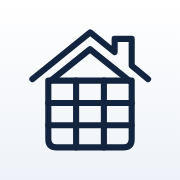
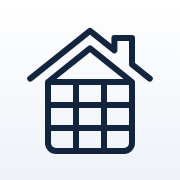
Add files via upload

Changed region(s): [[0.1389, 0.1389, 0.8611, 0.8611], [0.5556, 0.4722, 0.5833, 0.5556], [0.4167, 0.4722, 0.4444, 0.5556]]

diff --git a/app.js b/app.js
@@ -4,7 +4,7 @@
   var E = window.Engine;
   var KEY = 'assenze-collegio:v1', KEY_PREV = 'assenze-collegio:prev', KEY_UI = 'assenze-collegio:ui';
   var KEY_UID = 'assenze-collegio:uid', KEY_BAD = 'assenze-collegio:illeggibile';
-  var VERSION = '2.6';
+  var VERSION = '2.7';
   var DAY = 86400000;
 
   var state, res, brush = 'A', undoStack = [], tab = 'calendario', calDirty = true;
@@ -86,8 +86,8 @@
   };
   var TABS = [['calendario', 'Calendario'], ['riepilogo', 'Riepilogo'], ['mesi', 'Mesi'], ['elenco', 'Elenco'], ['impostazioni', 'Impostazioni']];
 
-  /* logo della barra laterale su PC: stesso disegno dell'icona dell'app (casa con griglia 3x3, navy su tessera bianca) */
-  var LOGO = '<svg viewBox="0 0 512 512" aria-hidden="true"><rect x="2" y="2" width="508" height="508" rx="120" fill="#fff"/><g transform="translate(256 256) scale(1.375) translate(-158.5 -159.5)"><path d="M30 135L159 31.2L213.5 74.8V45.5H251.5V105.2L288 135" fill="none" stroke="#13243e" stroke-width="15" stroke-linecap="round" stroke-linejoin="round"/><path d="M65.5 143L158.5 68.6L251.5 143V269.5Q251.5 287.5 233.5 287.5H83.5Q65.5 287.5 65.5 269.5Z" fill="none" stroke="#13243e" stroke-width="15" stroke-linecap="round" stroke-linejoin="round"/><path d="M65.5 138.5H251.5" fill="none" stroke="#13243e" stroke-width="15" stroke-linecap="round" stroke-linejoin="round"/><path d="M127.5 138.5V287.5M189.5 138.5V287.5M65.5 188.5H251.5M65.5 238H251.5" fill="none" stroke="#13243e" stroke-width="15" stroke-linecap="round" stroke-linejoin="round"/></g></svg>';
+  /* logo della barra laterale su PC: stesso disegno dell'icona (casa con griglia 3x3, navy su tessera bianca), con linee agganciate ai pixel a 40 px */
+  var LOGO = '<svg viewBox="0 0 40 40" aria-hidden="true"><rect width="40" height="40" rx="9.2" fill="#fff"/><path d="M5.23 17.33L20.5 5.11L26.51 9.91V7H31V13.51L35.77 17.33" fill="none" stroke="#13243e" stroke-width="2" stroke-linecap="round" stroke-linejoin="round"/><path d="M10 18L20.5 9.6L31 18V34A2 2 0 0 1 29 36H12A2 2 0 0 1 10 34Z" fill="none" stroke="#13243e" stroke-width="2" stroke-linecap="round" stroke-linejoin="round"/><path d="M10 18H31M17 18V36M24 18V36M10 24H31M10 30H31" fill="none" stroke="#13243e" stroke-width="2" stroke-linecap="butt"/></svg>';
 
   function buildNav() {
     var nav = $('#tabs');

diff --git a/styles.css b/styles.css
@@ -1,4 +1,4 @@
-/* StayTrack - stile v2.6
+/* StayTrack - stile v2.7
    Idea: inchiostro navy (dal logo) per navigazione e azioni; il colore è riservato agli stati dei giorni
    (menta = presente, rosso = assenza, ambra = giustificata, ardesia = festa/chiusura).
    Telefono: barra di stato in alto + navigazione in basso. PC: barra laterale navy + mesi su più colonne. */
